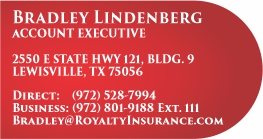
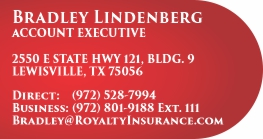
change

diff --git a/lindsey.html b/lindsey.html
@@ -8,7 +8,7 @@
     <!-- GIF COLUMN -->
     <td style="margin:0; padding:0;">
       <img
-        src="images/bradley.gif"
+        src="images/andrew.gif"
         alt=""
         width="291"
         height="139"
@@ -21,7 +21,7 @@
     <!-- TEXT IMAGE COLUMN -->
     <td valign="middle" style="margin:0; padding:0;">
       <img
-        src="images/bradley.jpg"
+        src="images/Kelly.gif"
         alt=""
         width="263"
         height="139"
@@ -118,7 +118,7 @@
   <tr>
     <td colspan="7" style="padding-top:10px;">
       <img
-        src="images/logos.gif"
+        src="images/logos.jpg"
         width="600"
         style="display:block; border:0; outline:none; text-decoration:none;"
         alt=""
